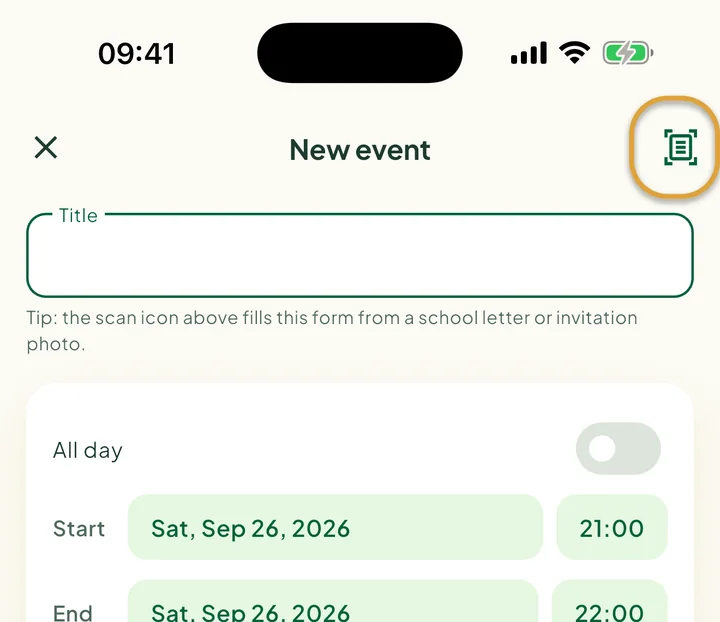
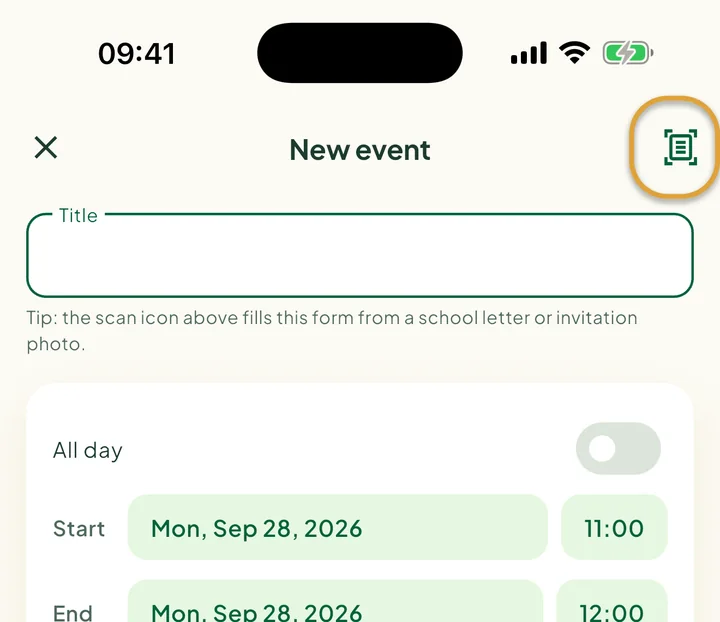
docs(help): Norwegian uses KI; refreshed calendar-photo picture
The Norwegian help said "AI" in four places while the app says "KI".
calendar-photo.webp (en) was re-shot on 2026-09-28; only the on-screen date changed.

Prompt: claude-prompts/2026-09-28/003-help-nb-ki.md

diff --git a/help/nb/meals/suggest.md b/help/nb/meals/suggest.md
@@ -19,6 +19,6 @@ Tom for middagsidéer?
 
 Bare ledige kvelder fra i dag blir fylt ut, og det dere har spist de siste to ukene, hoppes over. Nye idéer lagres i oppskriftene dine. **Prøv igjen** bruker ett forslag til.
 
-> Note: Oppskriftstitlene dine, de siste måltidene og ønsket ditt sendes til Googles AI, som ikke lagrer noe. daili spør deg først, og **Innstillinger** → **KI-funksjoner (Google Gemini)** slår det av.
+> Note: Oppskriftstitlene dine, de siste måltidene og ønsket ditt sendes til Googles KI, som ikke lagrer noe. daili spør deg først, og **Innstillinger** → **KI-funksjoner (Google Gemini)** slår det av.
 
-> Note: Forslag deler de månedlige AI-lesingene med video- og bildelesinger. Daili Plus har flere – og hvis familien din var med tidlig, er de gratis for alltid.
+> Note: Forslag deler de månedlige KI-lesingene med video- og bildelesinger. Daili Plus har flere – og hvis familien din var med tidlig, er de gratis for alltid.

diff --git a/help/nb/meals/photo.md b/help/nb/meals/photo.md
@@ -18,6 +18,6 @@ Har du en oppskrift på papir eller i en skjermdump? daili skriver den inn for d
 
 Oppskriften kommer ut på telefonens språk, uansett hvilket språk siden er på. Trykt eller tydelig skrevet tekst fungerer best.
 
-> Note: Bildet sendes til Googles AI for å bli lest og slettes etterpå, uten kameradata som posisjon. daili spør deg først, og **Innstillinger** → **KI-funksjoner (Google Gemini)** slår det av.
+> Note: Bildet sendes til Googles KI for å bli lest og slettes etterpå, uten kameradata som posisjon. daili spør deg først, og **Innstillinger** → **KI-funksjoner (Google Gemini)** slår det av.
 
 > Note: Hver familie får noen gratis bildelesinger hver måned, delt med videolesingene og kalenderbildene. Daili Plus har flere – og hvis familien din var med tidlig, er lesinger gratis for alltid.

diff --git a/help/nb/calendar/photo.md b/help/nb/calendar/photo.md
@@ -19,6 +19,6 @@ Datoer på papir? Skanneikonet i **Ny hendelse** leser dem for deg.
 
 Trykt tekst fungerer best, håndskrift dårligere. Har du en PDF, tar du bilde av siden.
 
-> Note: Bildet sendes til Googles AI for å bli lest og slettes etterpå, uten kameradata som posisjon. daili spør deg først, og **Innstillinger** → **KI-funksjoner (Google Gemini)** slår det av.
+> Note: Bildet sendes til Googles KI for å bli lest og slettes etterpå, uten kameradata som posisjon. daili spør deg først, og **Innstillinger** → **KI-funksjoner (Google Gemini)** slår det av.
 
 > Note: Hver familie får noen gratis bildelesinger hver måned, delt med videolesingene. Daili Plus har flere – og hvis familien din var med tidlig, er lesinger gratis for alltid.
